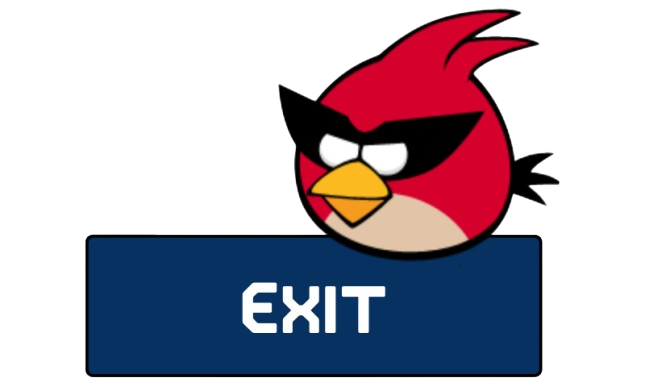
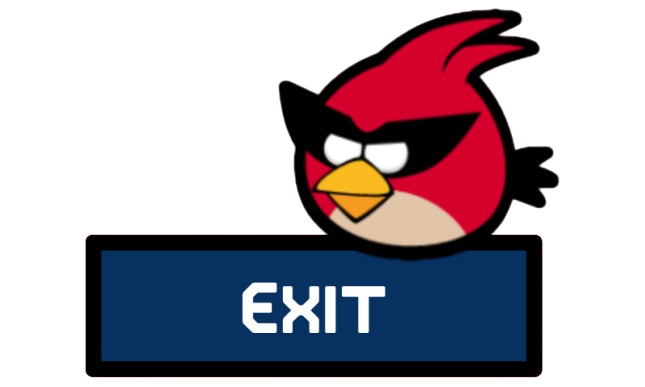
win loss screen added, fixed some assets etc

Changed region(s): [[0.124, 0.0, 0.8682, 0.9922], [0.6202, 0.3721, 0.6512, 0.4031]]

diff --git a/core/src/main/java/com/ByteMe/Loss.java b/core/src/main/java/com/ByteMe/Loss.java
@@ -7,7 +7,7 @@ import com.badlogic.gdx.graphics.GL20;
 import com.badlogic.gdx.graphics.Texture;
 import com.badlogic.gdx.graphics.g2d.SpriteBatch;
 
-public class Win implements Screen {
+public class Loss implements Screen {
 
     private SpriteBatch batch;
     private Texture bgtexture;
@@ -15,13 +15,15 @@ public class Win implements Screen {
     private Texture endButton;
     private MainLauncher game;
     private final Player player;
+    private int status;
 
-    public Win(MainLauncher game, Player player) {
+    public Loss(MainLauncher game, int i, Player player) {
         this.game=game;
         this.player = player;
+        status=i;
         batch = new SpriteBatch();
-        bgtexture = new Texture("win_bg.png");
-        nextButton = new Texture("next_wl.png");
+        bgtexture = new Texture("loss_bg.png");
+        nextButton = new Texture("restart_wl.png");
         endButton = new Texture("exit_wl.png");
     }
 
@@ -35,10 +37,10 @@ public class Win implements Screen {
         Gdx.gl.glClearColor(0.5f, 0.8f, 0.9f, 1);
         Gdx.gl.glClear(GL20.GL_COLOR_BUFFER_BIT);
 
-        int next_x = 225;
-        int next_y = 200;
-        int next_width = 350;
-        int next_height = 70;
+        int restart_x = 225;
+        int restart_y = 200;
+        int restart_width = 350;
+        int restart_height = 70;
         int end_x = 225;
         int end_y = 130;
         int end_width = 350;
@@ -48,8 +50,18 @@ public class Win implements Screen {
             float mouseX = Gdx.input.getX();
             float mouseY = Gdx.graphics.getHeight() - Gdx.input.getY();
 
-            if (mouseX >= next_x && mouseX <= next_x+next_width && mouseY >= next_y && mouseY <= next_y+next_height) {
-                game.setScreen(new LevelsScreen(game, player));
+            if (mouseX >= restart_x && mouseX <= restart_x+restart_width && mouseY >= restart_y && mouseY <= restart_y+restart_height) {
+                switch (status){
+                    case 1:
+                        game.setScreen(new Level1(game, player));
+                        break;
+                    case 2:
+                        game.setScreen(new Level2(game, player));
+                        break;
+                    case 3:
+                        game.setScreen(new Level3(game, player));
+                        break;
+                }
             }
             if (mouseX >= end_x && mouseX <= end_x+end_width && mouseY >= end_y && mouseY <= end_y+end_height) {
                 game.setScreen(new HomeScreen(game, player));
@@ -59,7 +71,7 @@ public class Win implements Screen {
 
         batch.begin();
         batch.draw(bgtexture, 0, 0, Gdx.graphics.getWidth(), Gdx.graphics.getHeight());
-        batch.draw(nextButton, next_x, next_y, next_width, next_height);
+        batch.draw(nextButton, restart_x, restart_y, restart_width, restart_height);
         batch.draw(endButton, end_x, end_y, end_width, end_height);
         batch.end();
     }

diff --git a/core/src/main/java/com/ByteMe/Level1.java b/core/src/main/java/com/ByteMe/Level1.java
@@ -93,8 +93,11 @@ public class Level1 extends Level implements Screen {
             if (mouseX >= pauseButton_x && mouseX <= pauseButton_x+pauseButton_w && mouseY >= pauseButton_y && mouseY <= pauseButton_y+pauseButton_h){
                 game.setScreen(new PauseGame(game,1, player));
             }
-            if (mouseX >= winButton_h && mouseX <= winButton_x+winButton_w && mouseY >= winButton_y && mouseY <= winButton_y+winButton_h){
+            if (mouseX >= winButton_x && mouseX <= winButton_x+winButton_w && mouseY >= winButton_y && mouseY <= winButton_y+winButton_h){
                 game.setScreen(new Win(game, player));
+            }
+            if (mouseX >= lossButton_x && mouseX <= lossButton_x+lossButton_w && mouseY >= lossButton_y && mouseY <= lossButton_y+lossButton_h){
+                game.setScreen(new Loss(game,1, player));
             }
 
         }

diff --git a/core/src/main/java/com/ByteMe/LoadedGame.java b/core/src/main/java/com/ByteMe/LoadedGame.java
@@ -86,6 +86,12 @@ public class LoadedGame extends Level implements Screen {
             if (mouseX >= pauseButton_x && mouseX <= pauseButton_x+pauseButton_w && mouseY >= pauseButton_y && mouseY <= pauseButton_y+pauseButton_h){
                 game.setScreen(new PauseGame(game,0, player));
             }
+            if (mouseX >= winButton_x && mouseX <= winButton_x+winButton_w && mouseY >= winButton_y && mouseY <= winButton_y+winButton_h){
+                game.setScreen(new Win(game, player));
+            }
+            if (mouseX >= lossButton_x && mouseX <= lossButton_x+lossButton_w && mouseY >= lossButton_y && mouseY <= lossButton_y+lossButton_h){
+                game.setScreen(new Loss(game,1, player));
+            }
 
         }
 

diff --git a/core/src/main/java/com/ByteMe/Level2.java b/core/src/main/java/com/ByteMe/Level2.java
@@ -101,6 +101,12 @@ public class Level2 extends Level implements Screen {
             if (mouseX >= pauseButton_x && mouseX <= pauseButton_x+pauseButton_w && mouseY >= pauseButton_y && mouseY <= pauseButton_y+pauseButton_h){
                 game.setScreen(new PauseGame(game,2, player));
             }
+            if (mouseX >= winButton_x && mouseX <= winButton_x+winButton_w && mouseY >= winButton_y && mouseY <= winButton_y+winButton_h){
+                game.setScreen(new Win(game, player));
+            }
+            if (mouseX >= lossButton_x && mouseX <= lossButton_x+lossButton_w && mouseY >= lossButton_y && mouseY <= lossButton_y+lossButton_h){
+                game.setScreen(new Loss(game,2, player));
+            }
 
         }
 

diff --git a/core/src/main/java/com/ByteMe/Level3.java b/core/src/main/java/com/ByteMe/Level3.java
@@ -106,6 +106,12 @@ public class Level3 extends Level implements Screen {
             if (mouseX >= pauseButton_x && mouseX <= pauseButton_x+pauseButton_w && mouseY >= pauseButton_y && mouseY <= pauseButton_y+pauseButton_h){
                 game.setScreen(new PauseGame(game,3, player));
             }
+            if (mouseX >= winButton_x && mouseX <= winButton_x+winButton_w && mouseY >= winButton_y && mouseY <= winButton_y+winButton_h){
+                game.setScreen(new Win(game, player));
+            }
+            if (mouseX >= lossButton_x && mouseX <= lossButton_x+lossButton_w && mouseY >= lossButton_y && mouseY <= lossButton_y+lossButton_h){
+                game.setScreen(new Loss(game,3, player));
+            }
 
         }
 

diff --git a/core/src/main/java/com/ByteMe/HandScreen.java b/core/src/main/java/com/ByteMe/HandScreen.java
@@ -62,7 +62,7 @@ public class HandScreen implements Screen {
                         game.setScreen(new Level2(game, player));
                         break;
                     case 3:
-                        //game.setScreen(new Level3(game, player));
+                        game.setScreen(new Level3(game, player));
                         break;
                 }
             }

diff --git a/core/src/main/java/com/ByteMe/MainLauncher.java b/core/src/main/java/com/ByteMe/MainLauncher.java
@@ -31,7 +31,8 @@ public class MainLauncher extends Game {
         backgroundMusic.setLooping(true);
         backgroundMusic.play();
         setScreen(new LoadingScreen(this));
-        //setScreen(new Level3(this));
+//        Player player = new Player();
+//        setScreen(new Win(this, player));
     }
 
     @Override
